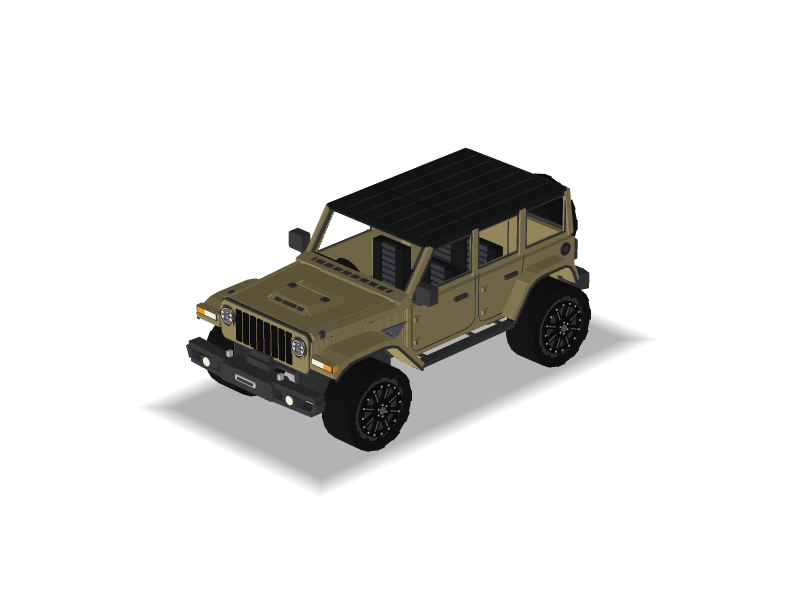
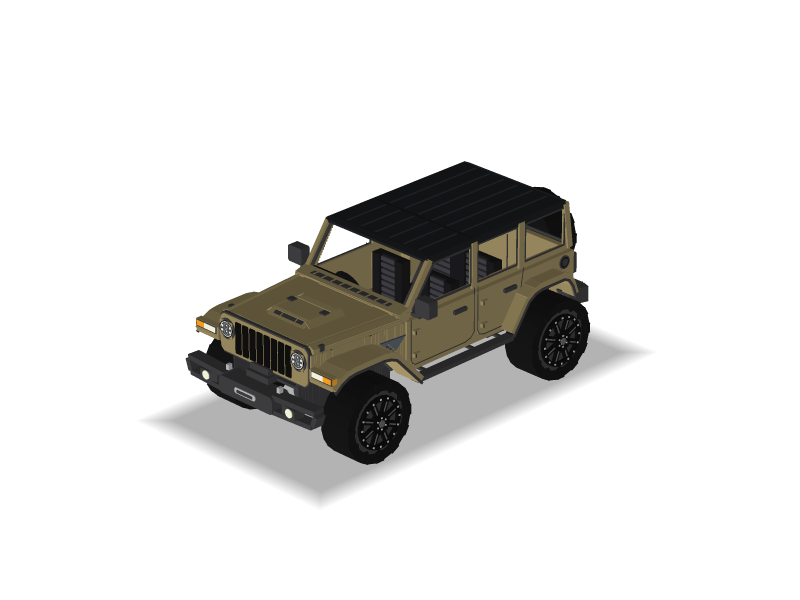
Render the SUV previews flying with headlights on, from the side, and from the rear under water

Changed region(s): [[0.1875, 0.24, 0.8125, 0.84]]

diff --git a/tests/tools/renderPreview.test.ts b/tests/tools/renderPreview.test.ts
@@ -405,7 +405,7 @@ from unittest.mock import patch
 rp = Path('packs/yasu_ride_rp')
 with tempfile.TemporaryDirectory() as directory:
     output = Path(directory)
-    names = ('suv-front-left.png', 'suv-headlights.png', 'suv-flying.png', 'suv-submarine.png')
+    names = ('suv-front-left.png', 'suv-flying-headlights.png', 'suv-side.png', 'suv-submarine-rear.png')
     before = {name: Path('docs/images', name).read_bytes() for name in names}
     for name, data in before.items():
         (output / name).write_bytes(data)

diff --git a/tools/render_preview.py b/tools/render_preview.py
@@ -302,11 +302,13 @@ PHOTO_VIEWS = {
 ICON_NAMES = {**{piece["name"]: piece["item"] for piece in RESORT_GEAR}, ROOF_TENT_PREVIEW: ROOF_TENT_ICON, NOGA_CHAIR_PREVIEW: NOGA_CHAIR_ICON, CHAIR_PREVIEW: CHAIR_ICON, TENT_PREVIEW: TENT_ICON, TABLE_PREVIEW: TABLE_ICON, FIRE_PIT_PREVIEW: FIRE_PIT_ICON, DUTCH_OVEN_PREVIEW: DUTCH_OVEN_ICON, GAS_LANTERN_PREVIEW: GAS_LANTERN_ICON}
 
 POSES = {
-    "suv-front-left.png": {"lamps": False, "dusk": False, "hover": False, "submarine": False, "brightness": MAIN_BRIGHTNESS},
-    "suv-headlights.png": {"lamps": True, "dusk": True, "hover": False, "submarine": False},
-    "suv-flying.png": {"lamps": False, "dusk": False, "hover": True, "submarine": False, "brightness": MAIN_BRIGHTNESS},
-    "suv-submarine.png": {"lamps": False, "dusk": False, "hover": False, "submarine": True},
+    "suv-front-left.png": {"lamps": False, "dusk": False, "hover": False, "submarine": False, "view": VIEW_DIRECTION, "brightness": MAIN_BRIGHTNESS},
+    "suv-flying-headlights.png": {"lamps": True, "dusk": True, "hover": True, "submarine": False, "view": VIEW_DIRECTION},
+    "suv-side.png": {"lamps": False, "dusk": False, "hover": False, "submarine": False, "view": (1.0, 0.15, 0.0001), "brightness": SIDE_BRIGHTNESS},
+    "suv-submarine-rear.png": {"lamps": False, "dusk": False, "hover": False, "submarine": True, "view": (1.0, 0.6, 1.0)},
 }
+# The pack icon flies with its lamps lit but without the dusk tint, so the body keeps its daylight colors.
+SUV_ICON_POSE = {"lamps": True, "dusk": False, "hover": True, "submarine": False, "brightness": 1.0}
 
 
 def read_png_bytes(path):
@@ -1205,20 +1207,25 @@ def render_suv(rp: Path, icon_path: Path | None) -> SceneResult:
     ground_y = min(p[1] for quad, _, _ in scenes["suv-front-left.png"] for p in quad)
     layers = {name: ground_layers(scenes[name], pose, ground_y, flight=flight if pose["hover"] else None) for name, pose in POSES.items()}
 
-    # One camera and one scale for every pose, so the vehicle has the same size in each picture
-    camera = Camera([p for polygons in scenes.values() for quad, _, _ in polygons for p in quad])
-    to_screen = fit(camera, [q for name in POSES for q, _, _ in scenes[name] + layers[name]])
-
-    images = {
-        name: RasterJob(name, scenes[name], layers[name], to_screen, WIDTH, HEIGHT, None, BLOOM, ())
-        for name in POSES
-    }
+    # Each view direction gets its own frame, all at one scale, so the SUV keeps its size across the row.
+    # The headlight beam stays out of the frame so it cannot shrink the vehicle.
+    frame_layers = {name: ground_layers(scenes[name], {**pose, "lamps": False}, ground_y, flight=flight if pose["hover"] else None)
+                    for name, pose in POSES.items()}
+    points = [p for polygons in scenes.values() for quad, _, _ in polygons for p in quad]
+    frames = {}
+    for name, pose in POSES.items():
+        frames.setdefault(pose["view"], []).append(name)
+    views = [(Camera(points, view), [q for name in names for q, _, _ in scenes[name] + frame_layers[name]])
+             for view, names in frames.items()]
+    images = {}
+    for names, to_screen in zip(frames.values(), fit_views(views)):
+        for name in names:
+            images[name] = RasterJob(name, scenes[name], layers[name], to_screen, WIDTH, HEIGHT, None, BLOOM, ())
+    images = {name: images[name] for name in POSES}
     icon = None
     if icon_path is not None:
-        # Lamps lit without the dusk tint, so the body keeps its daylight colors
-        pose = {**POSES["suv-flying.png"], "lamps": True, "brightness": 1.0}
-        polygons = collect(geo, texture, turns, pose, lit_texture, flight=flight)
-        icon = render_icon(geo, polygons, camera, str(icon_path), flight)
+        polygons = collect(geo, texture, turns, SUV_ICON_POSE, lit_texture, flight=flight)
+        icon = render_icon(geo, polygons, Camera(points), str(icon_path), flight)
     return SceneResult(images, icon)
 
 
